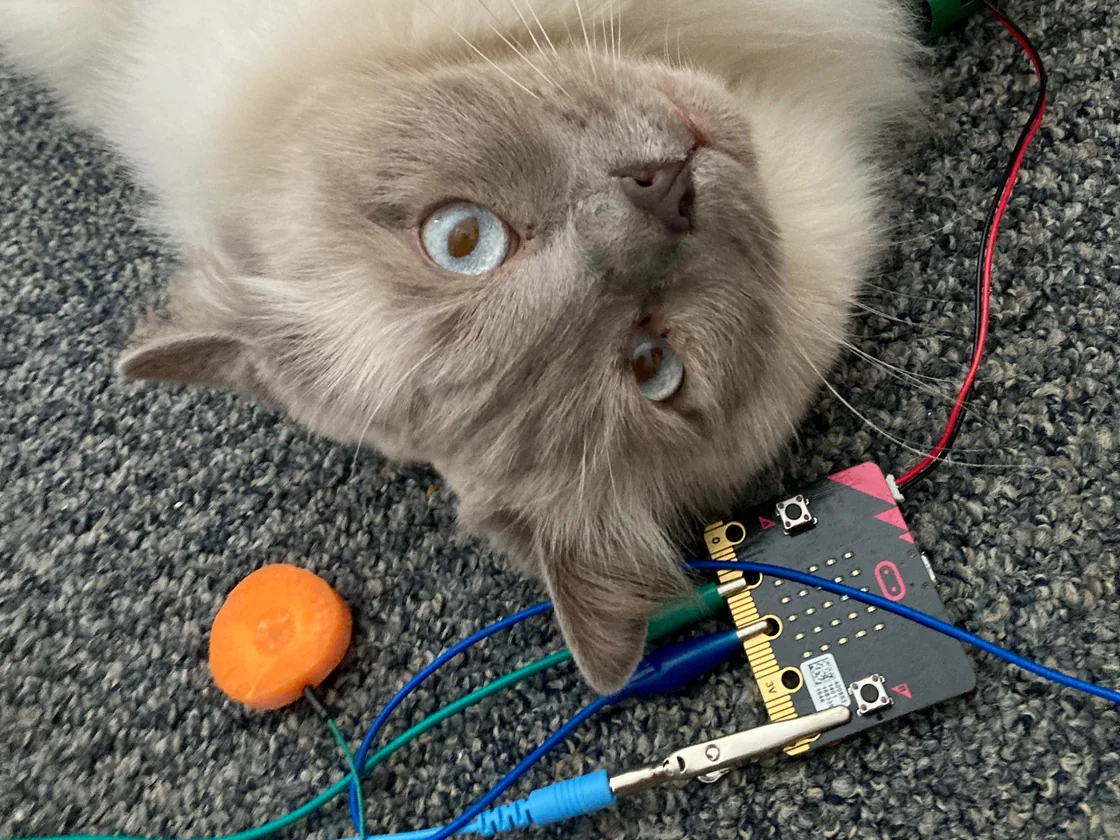
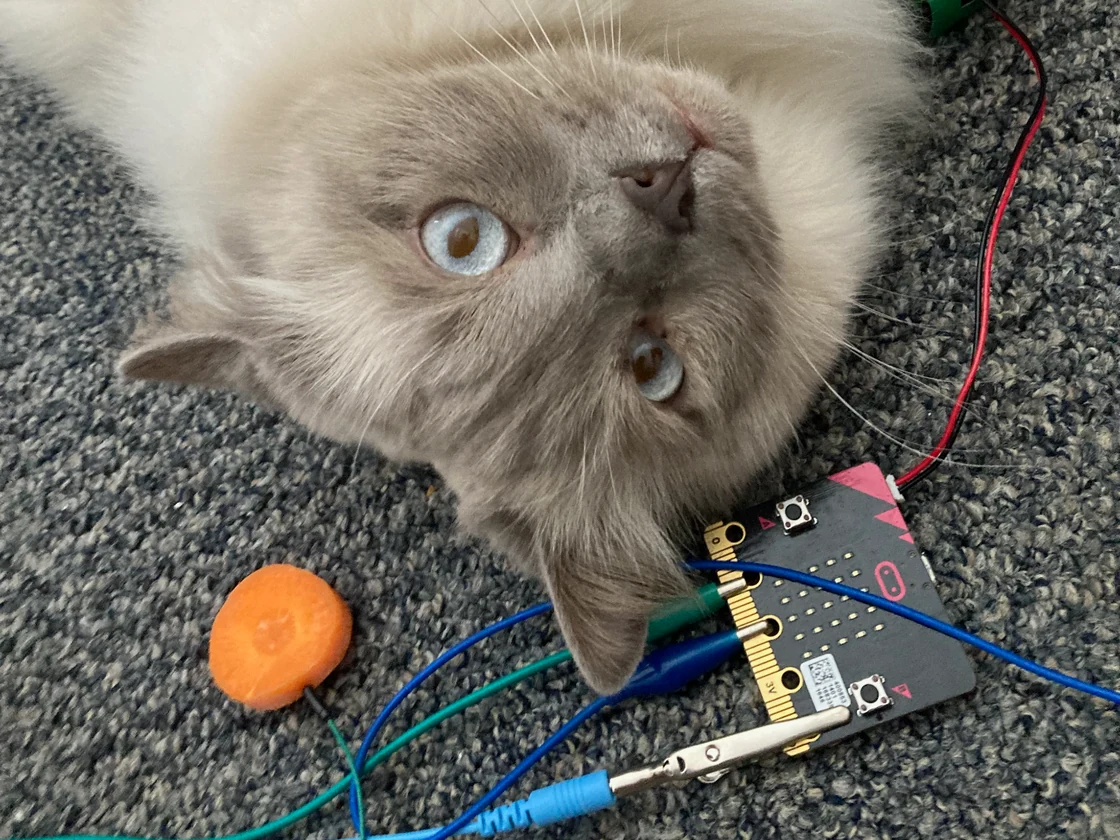
Subtly retouch Lucky's eye corners in original website photo

diff --git a/website/qwertylabs/thelab.html b/website/qwertylabs/thelab.html
@@ -203,7 +203,7 @@
                 </div>
                 <figure class="subpage-art subpage-art--landscape">
                   <span class="subpage-art__media photo-frame--cardboard-offset">
-                    <img class="subpage-art__image" src="img/lucky-microbit.webp" alt="Lucky the cat lying upside down next to a BBC micro:bit and colourful electronics wires" width="1120" height="840" loading="lazy" decoding="async">
+                    <img class="subpage-art__image" src="img/lucky-microbit.webp?v=eyes-20261120" alt="Lucky the cat lying upside down next to a BBC micro:bit and colourful electronics wires" width="1120" height="840" loading="lazy" decoding="async">
                   </span>
                 </figure>
               </section>
